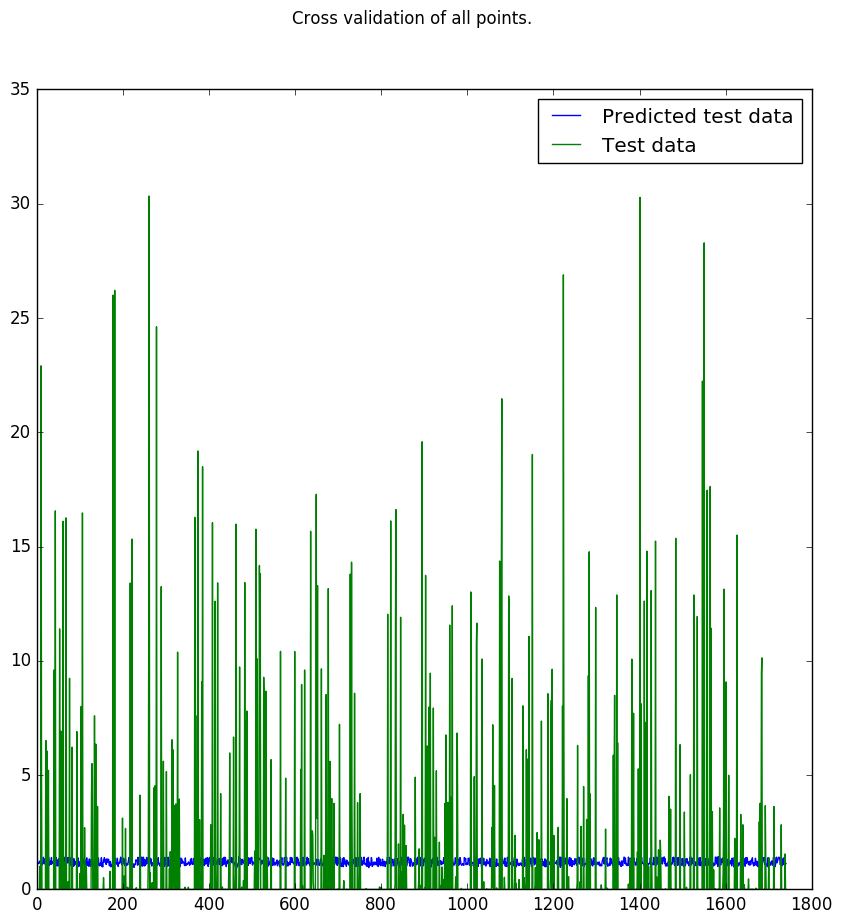
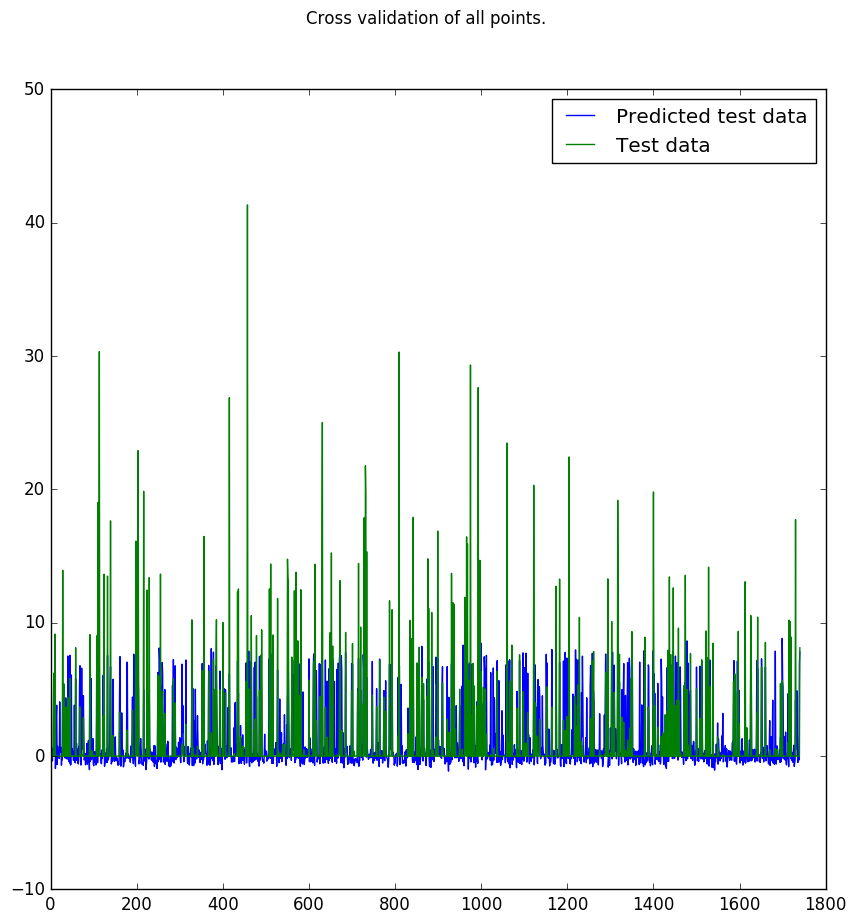
Update cross_validation_all_points.py and time_series_training.py.

Changed region(s): [[0.0, 0.091, 0.987, 1.0], [0.3393, 0.0, 0.6477, 0.0303], [0.6168, 0.091, 0.6477, 0.182]]

diff --git a/time_series_training.py b/time_series_training.py
@@ -10,9 +10,14 @@ from sklearn.metrics import mean_squared_error
 import read_dataset
 
 def split_and_build_class(X, y):
-    X_train, X_test, y_train, y_test = train_test_split(X, y, test_size=0.3)
+    X_train = X[: 4061]
+    X_test = X[4061:]
+    y_train = y[: 4061]
+    y_test = y[4061:]
     print X_train.shape
     print X_test.shape
+
+    # X_train, X_test, y_train, y_test = train_test_split(X, y, test_size=0.3)
 
     # Normalize the input data.
     imp = preprocessing.Imputer(missing_values='NaN', strategy='mean', axis=0)
@@ -94,9 +99,10 @@ def main():
         plt.plot([i for i in xrange(test_size)], y_hat_test)
         plt.plot([i for i in xrange(test_size)], y_test)
         plt.legend(['Predicted test data', 'Test data'])
-        plt.suptitle('Cross validation of all points.')
-        plt.savefig('cross_validation_all_points.png', bbox_inches='tight')
+        plt.suptitle('Time series of all points.')
+        plt.savefig('time_series_all_points.png', bbox_inches='tight')
 
-        # print 'Cross Validation loss =', clf.score(X_test[:, 1:], y_test)
-        print 'Cross Validation loss =', mean_squared_error(y_test, y_hat_test)
+        # print 'Time series loss =', clf.score(X_test[:, 1:], y_test)
+        print 'Time series loss =', mean_squared_error(y_test, y_hat_test)
+
 main()
